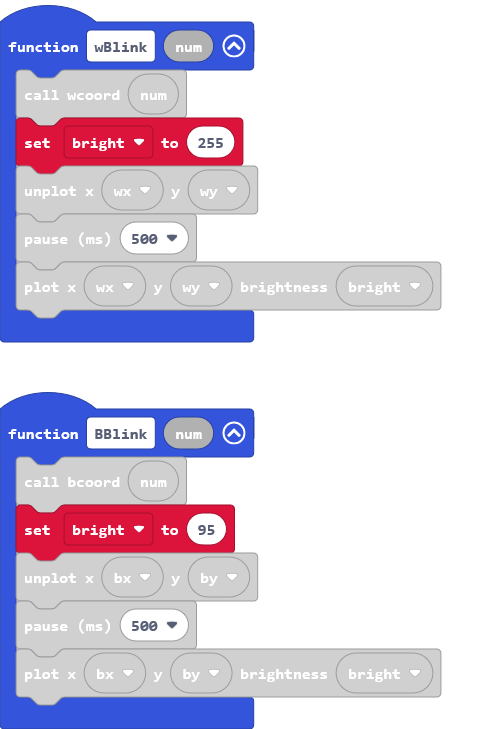
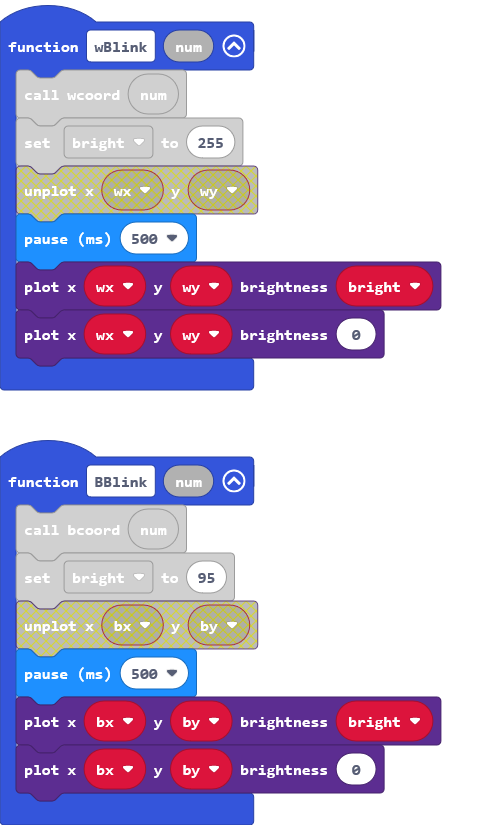
Update main.blocks, main.ts

diff --git a/main.ts b/main.ts
@@ -40,7 +40,7 @@ input.onButtonPressed(Button.A, function () {
 function BBlink (num: number) {
     bcoord(num)
     bright = 95
-    led.unplot(bx, by)
+    led.plotBrightness(bx, by, 0)
     basic.pause(500)
     led.plotBrightness(bx, by, bright)
 }
@@ -79,7 +79,7 @@ function bForward () {
 function wBlink (num: number) {
     wcoord(num)
     bright = 255
-    led.unplot(wx, wy)
+    led.plotBrightness(wx, wy, 0)
     basic.pause(500)
     led.plotBrightness(wx, wy, bright)
 }
